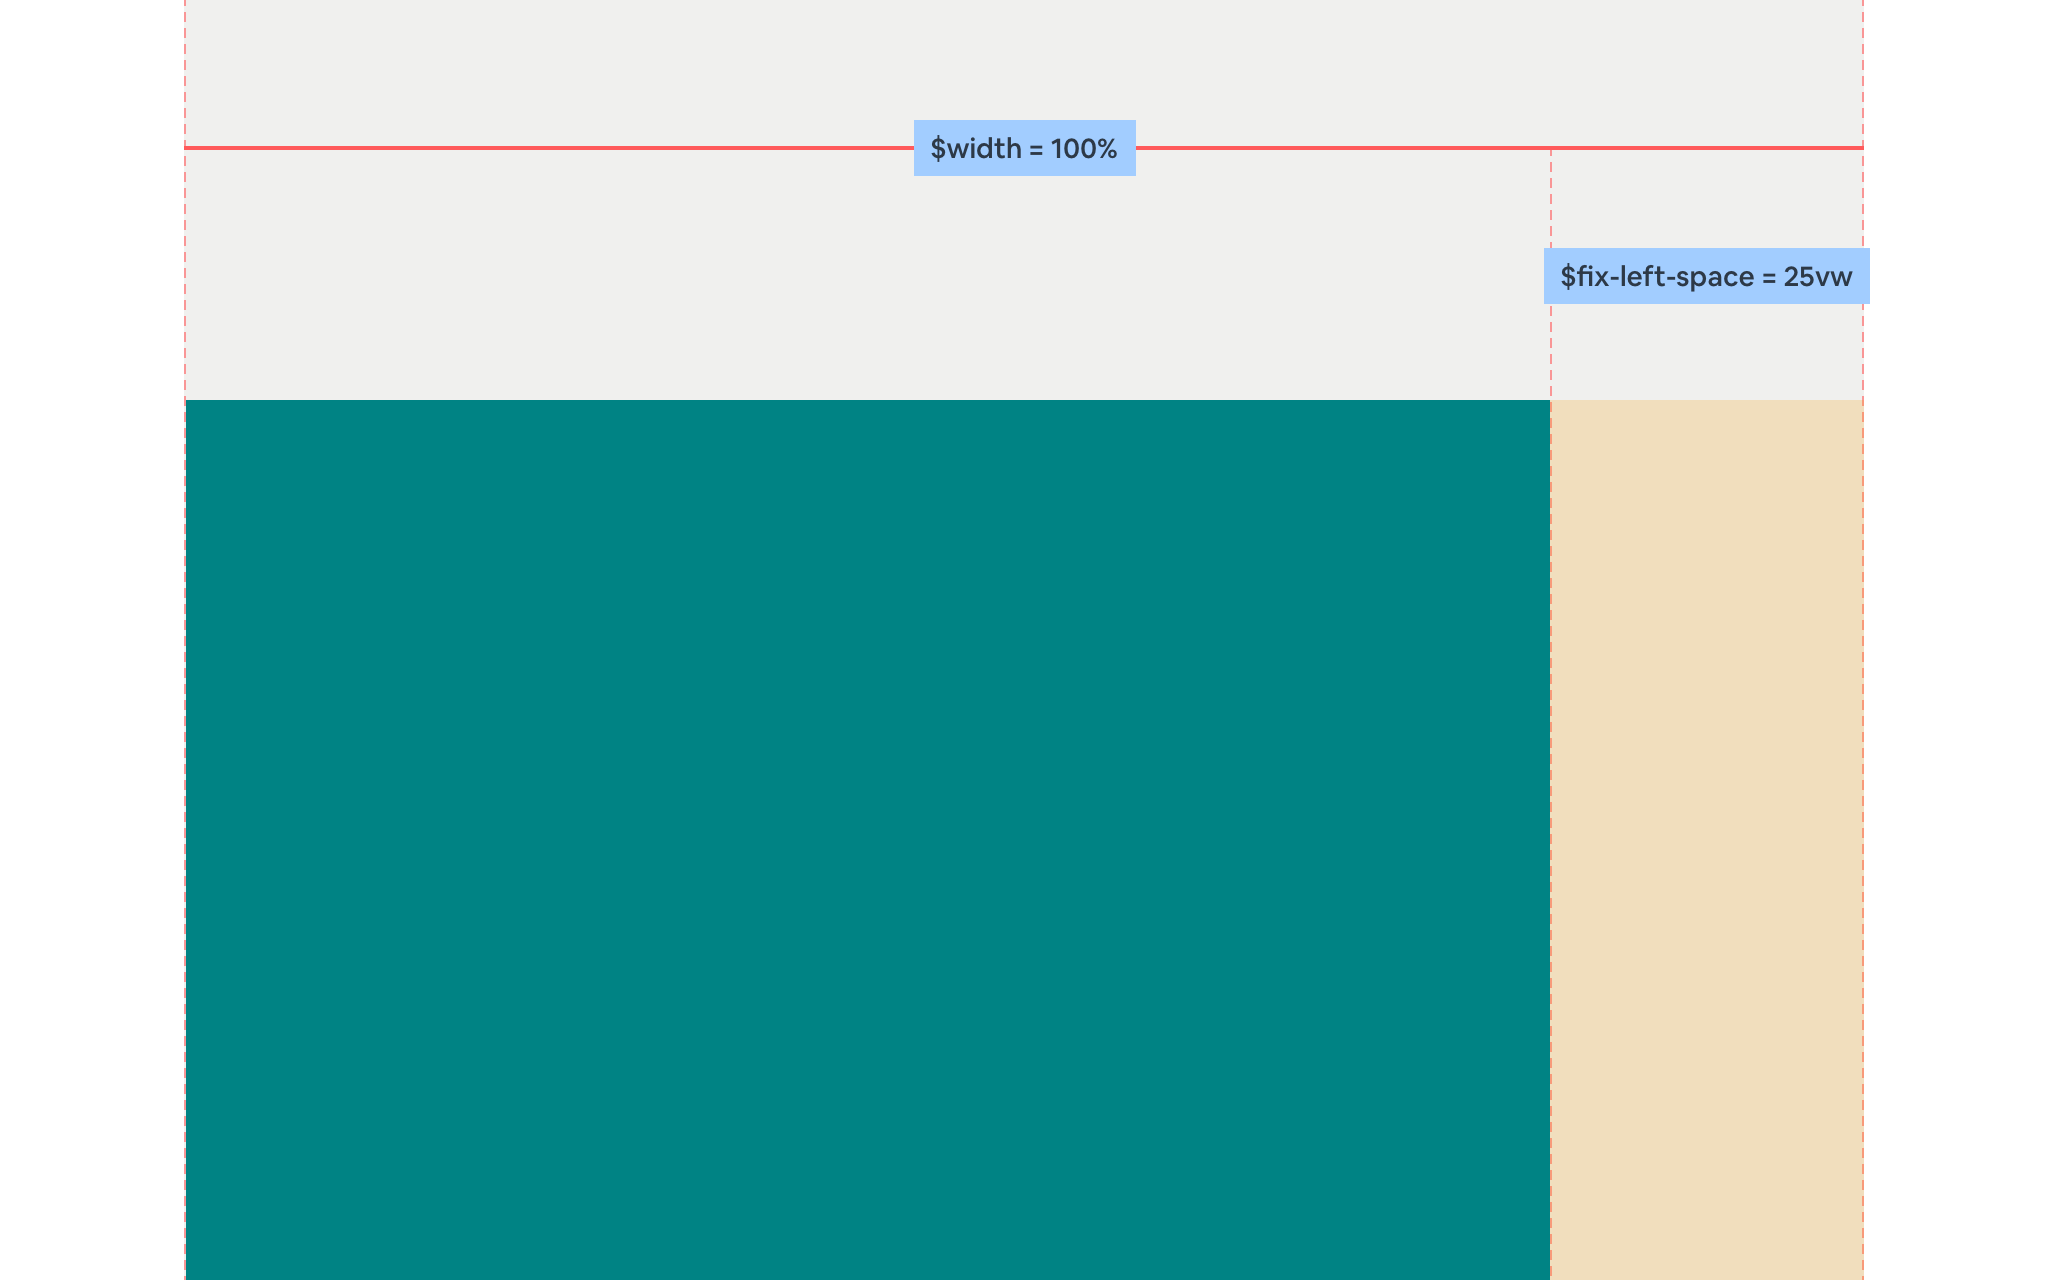
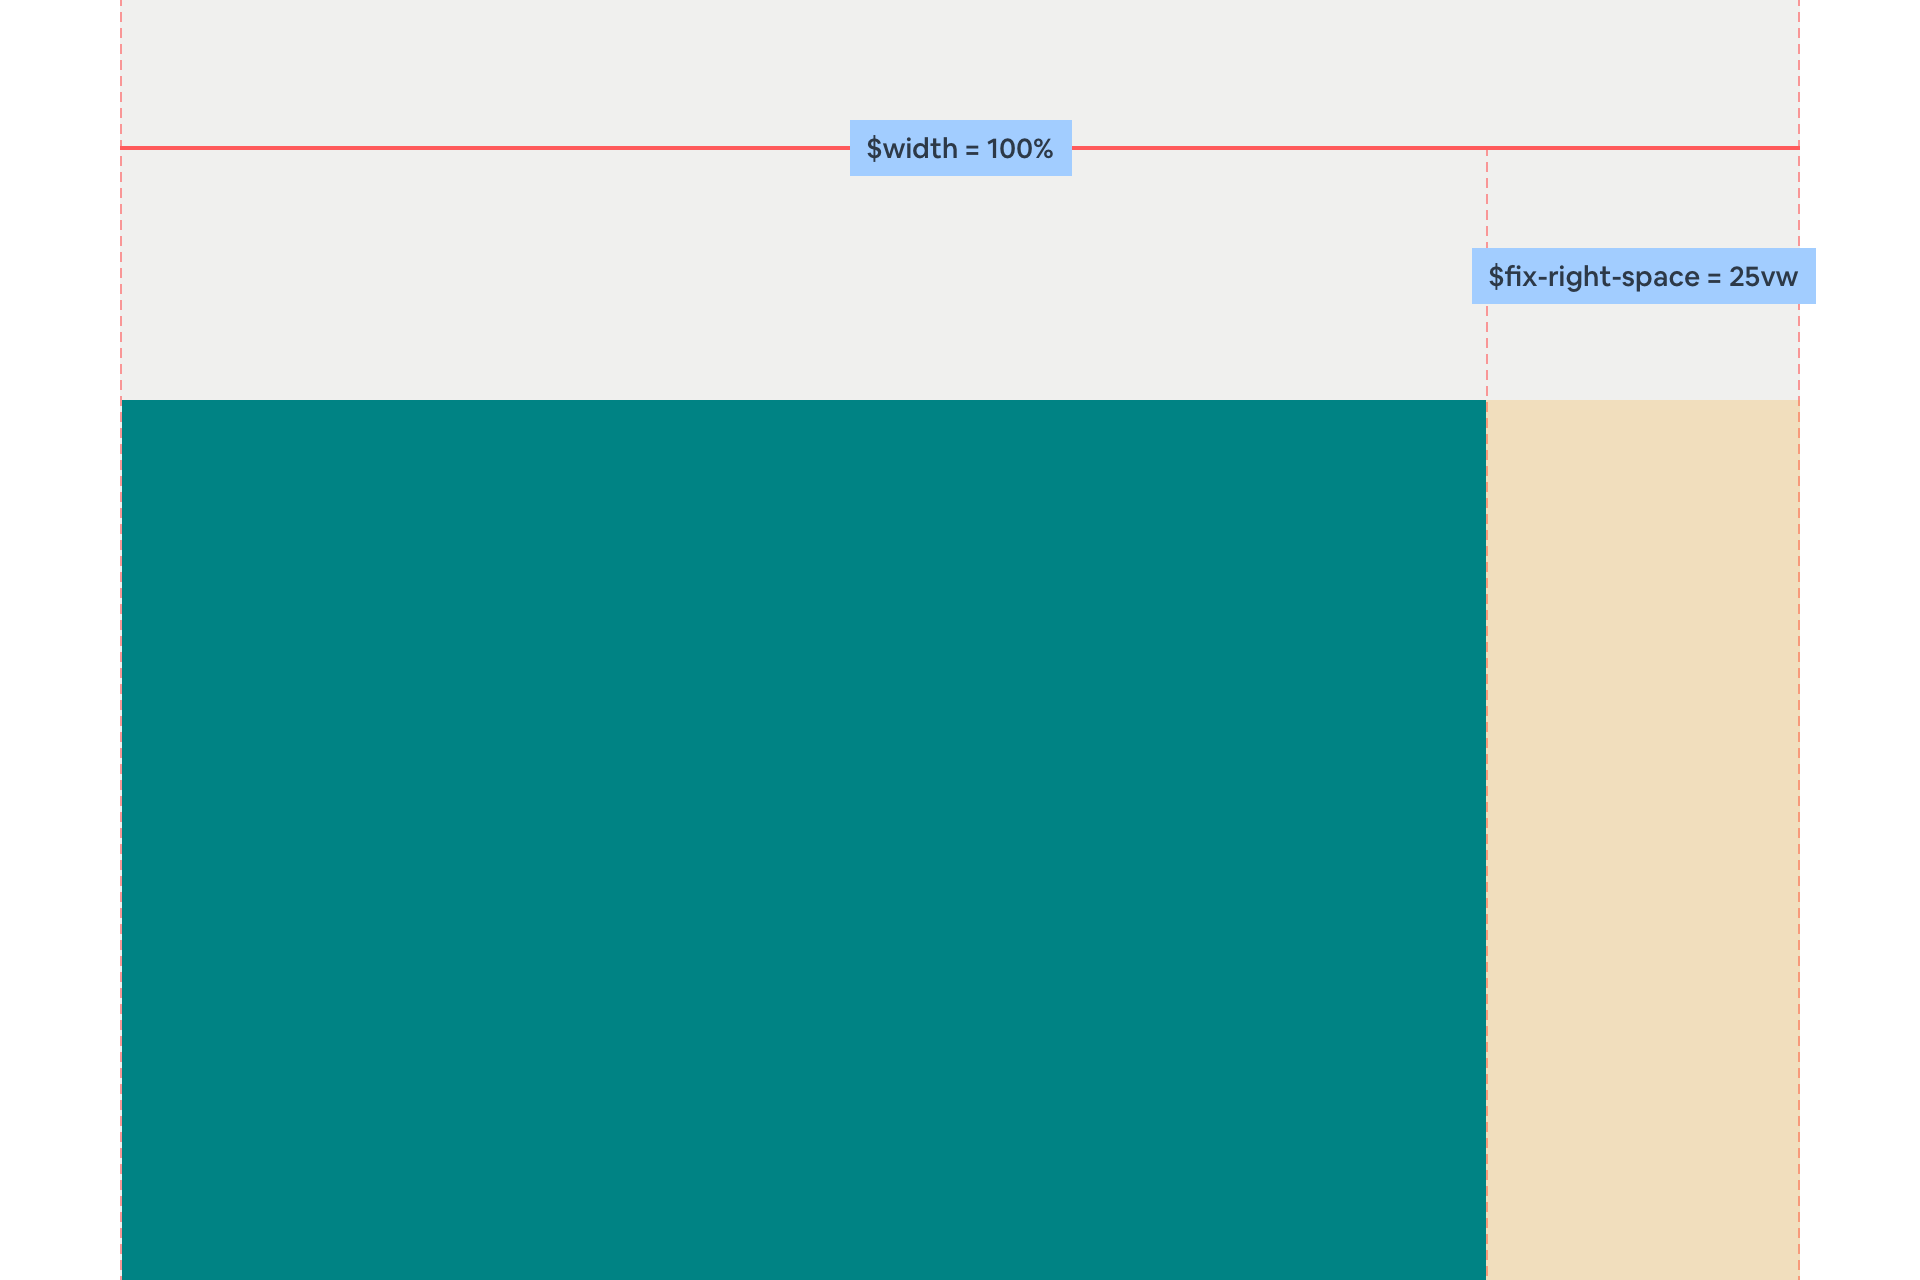
Enter RightSection and LeftSection

diff --git a/docs/src/app/App.js b/docs/src/app/App.js
@@ -9,6 +9,7 @@ import LeftSection from './layouts/LeftSection/LeftSection';
 import MainContent from './layouts/MainContent/MainContent';
 
 import NavbarAlt from './components/NavbarAlt/NavbarAlt';
+import Navbar from './components/Navbar/Navbar';
 import Text from './primitives/Text/Text';
 
 import TextfieldPage from './pages/TextfieldPage/TextfieldPage';
@@ -29,6 +30,8 @@ import BadgePage from './pages/BadgePage/BadgePage';
 import TooltipsPage from './pages/TooltipsPage/TooltipsPage';
 import PopoutPage from './pages/PopoutPage/PopoutPage';
 import ContainerPage from './pages/ContainerPage/ContainerPage';
+import LeftSectionPage from './pages/LeftSectionPage/LeftSectionPage';
+import RightSectionPage from './pages/RightSectionPage/RightSectionPage';
 
 // const TextfieldPage = lazy(() => import('./pages/TextfieldPage/TextfieldPage'));
 // const TextPage = lazy(() => import('./pages/TextPage/TextPage'));
@@ -79,12 +82,18 @@ class App extends Component {
         </Helmet>
         <Router>
           <React.Fragment>
-            <NavbarAlt />
+            <Navbar />
             <Container fixLeft fixRight className={styles.mainContainer}>
               <MainContent>
                 <Route exact path="/sandbox" component={SandboxPage} />
                 <Route exact path="/airtable" component={AirtablePage} />
                 <Route exact path="/container" component={ContainerPage} />
+                <Route exact path="/left-section" component={LeftSectionPage} />
+                <Route
+                  exact
+                  path="/right-section"
+                  component={RightSectionPage}
+                />
                 <Route exact path="/text" component={TextPage} />
                 <Route exact path="/button" component={ButtonPage} />
                 <Route exact path="/textfield" component={TextfieldPage} />
@@ -119,6 +128,16 @@ class App extends Component {
               <Link to="/container">
                 <Text className={styles.link} link>
                   Container
+                </Text>
+              </Link>
+              <Link to="/left-section">
+                <Text className={styles.link} link>
+                  LeftSection
+                </Text>
+              </Link>
+              <Link to="/right-section">
+                <Text className={styles.link} link>
+                  RightSection
                 </Text>
               </Link>
               <Text heading6 component="h4" style={{ paddingTop: '24px' }}>

diff --git a/docs/src/app/pages/LeftSectionPage/LeftSectionPage.js b/docs/src/app/pages/LeftSectionPage/LeftSectionPage.js
@@ -1,0 +1,70 @@
+import styles from './LeftSectionPage.module.scss';
+import React from 'react';
+import cx from 'classnames';
+
+import Header from './../../docs/Header/Header';
+import Subheader from './../../docs/Subheader/Subheader';
+import Preview from './../../docs/Preview/Preview';
+// import Code from './../../docs/Code/Code';
+import Divider from './../../docs/Divider/Divider';
+
+import Table from './../../components/Table/Table';
+import Text from './../../primitives/Text/Text';
+import Image from '../../primitives/Image/Image';
+
+import leftSection from './webp/leftSection.webp';
+import helper from './webp/helper.webp';
+
+let headProps = ['', 'name', 'type', 'default'];
+
+let bodyProps = [
+  {
+    required: false,
+    name: 'className',
+    type: 'string',
+    default: '-'
+  },
+  {
+    required: false,
+    name: 'fixed',
+    type: 'boolean',
+    help: 'Set the position property to fixed.',
+    default: '-'
+  },
+  {
+    required: false,
+    name: 'children',
+    type: 'React.Node',
+    default: '-'
+  }
+];
+
+const LeftSectionPage = props => {
+  return (
+    <div className={styles.root}>
+      <Header
+        title="LeftSection"
+        description="Good for a sidebar and secondary navigation."
+      />
+      <Table className={styles.tableProps} head={headProps} body={bodyProps} />
+      {/* <Subheader title="Example" description="" /> */}
+      <Preview>
+        <Image
+          containerClassName={styles.previewImage}
+          src={leftSection}
+          naturalWidth="960"
+          naturalHeight="640"
+        />
+        <Image
+          containerClassName={styles.previewImage}
+          src={helper}
+          naturalWidth="960"
+          naturalHeight="72"
+        />
+      </Preview>
+      <Divider large />
+    </div>
+  );
+};
+
+export default LeftSectionPage;

diff --git a/docs/src/app/pages/RightSectionPage/RightSectionPage.js b/docs/src/app/pages/RightSectionPage/RightSectionPage.js
@@ -1,0 +1,69 @@
+import styles from './RightSectionPage.module.scss';
+import React from 'react';
+import cx from 'classnames';
+
+import Header from './../../docs/Header/Header';
+import Subheader from './../../docs/Subheader/Subheader';
+import Preview from './../../docs/Preview/Preview';
+import Divider from './../../docs/Divider/Divider';
+
+import Table from './../../components/Table/Table';
+import Text from './../../primitives/Text/Text';
+import Image from '../../primitives/Image/Image';
+
+import rightSection from './webp/rightSection.webp';
+import helper from './webp/helper.webp';
+
+let headProps = ['', 'name', 'type', 'default'];
+
+let bodyProps = [
+  {
+    required: false,
+    name: 'className',
+    type: 'string',
+    default: '-'
+  },
+  {
+    required: false,
+    name: 'fixed',
+    type: 'boolean',
+    help: 'Set the position property to fixed.',
+    default: '-'
+  },
+  {
+    required: false,
+    name: 'children',
+    type: 'React.Node',
+    default: '-'
+  }
+];
+
+const RightSectionPage = props => {
+  return (
+    <div className={styles.root}>
+      <Header
+        title="RightSection"
+        description="Good for a additional information and secondary navigation."
+      />
+      <Table className={styles.tableProps} head={headProps} body={bodyProps} />
+      {/* <Subheader title="Example" description="" /> */}
+      <Preview>
+        <Image
+          containerClassName={styles.previewImage}
+          src={rightSection}
+          naturalWidth="960"
+          naturalHeight="640"
+        />
+        <Image
+          containerClassName={styles.previewImage}
+          src={helper}
+          naturalWidth="960"
+          naturalHeight="72"
+        />
+      </Preview>
+      <Divider large />
+    </div>
+  );
+};
+
+export default RightSectionPage;

diff --git a/docs/src/app/pages/ContainerPage/ContainerPage.js b/docs/src/app/pages/ContainerPage/ContainerPage.js
@@ -19,6 +19,7 @@ import fixLeft from './webp/fixLeft.webp';
 import fixRight from './webp/fixRight.webp';
 import mobile from './webp/mobile.webp';
 import tablet from './webp/tablet.webp';
+import helper from './webp/helper.webp';
 
 let headProps = ['', 'name', 'type', 'default'];
 
@@ -110,6 +111,12 @@ const ContainerPage = props => {
           naturalWidth="960"
           naturalHeight="640"
         />
+        <Image
+          containerClassName={styles.previewImage}
+          src={helper}
+          naturalWidth="960"
+          naturalHeight="72"
+        />
       </Preview>
       <Divider large />
       <Text heading4 component="h3">
@@ -130,6 +137,12 @@ const ContainerPage = props => {
           naturalWidth="960"
           naturalHeight="640"
         />
+        <Image
+          containerClassName={styles.previewImage}
+          src={helper}
+          naturalWidth="960"
+          naturalHeight="72"
+        />
       </Preview>
       <Divider large />
       <Text heading4 component="h3">
@@ -148,6 +161,12 @@ const ContainerPage = props => {
       />
       <Preview>
         <Image src={fixLeft} naturalWidth="960" naturalHeight="640" />
+        <Image
+          containerClassName={styles.previewImage}
+          src={helper}
+          naturalWidth="960"
+          naturalHeight="72"
+        />
       </Preview>
       <Divider large />
       <Subheader

diff --git a/docs/src/app/App.module.scss b/docs/src/app/App.module.scss
@@ -22,7 +22,7 @@
 
 .leftSection {
   top: 60px;
-  padding: $space-l $space-ml;
+  padding: $space-ll $space-ml;
 }
 
 .rightSection {
@@ -43,5 +43,5 @@
 }
 
 .mainContainer {
-  padding-top: $space-l;
+  padding-top: $space-ll;
 }

diff --git a/docs/src/app/pages/LeftSectionPage/LeftSectionPage.module.scss b/docs/src/app/pages/LeftSectionPage/LeftSectionPage.module.scss
@@ -1,0 +1,12 @@
+@import '~invoker-tokens/index.scss';
+
+.root {
+}
+
+.previewTitle {
+  margin: $space-stack-m;
+}
+
+.previewImage:not(:last-child) {
+  margin: $space-stack-l;
+}

diff --git a/docs/src/app/pages/RightSectionPage/RightSectionPage.module.scss b/docs/src/app/pages/RightSectionPage/RightSectionPage.module.scss
@@ -1,0 +1,12 @@
+@import '~invoker-tokens/index.scss';
+
+.root {
+}
+
+.previewTitle {
+  margin: $space-stack-m;
+}
+
+.previewImage:not(:last-child) {
+  margin: $space-stack-l;
+}

diff --git a/docs/src/app/layouts/LeftSection/LeftSection.module.scss b/docs/src/app/layouts/LeftSection/LeftSection.module.scss
@@ -1,8 +1,9 @@
 @import '~invoker-tokens/index.scss';
 
 .root {
-  width: 15vw;
+  width: $fix-left-space;
   overflow-y: scroll;
+  overflow-x: hidden;
   bottom: 0;
 }
 
